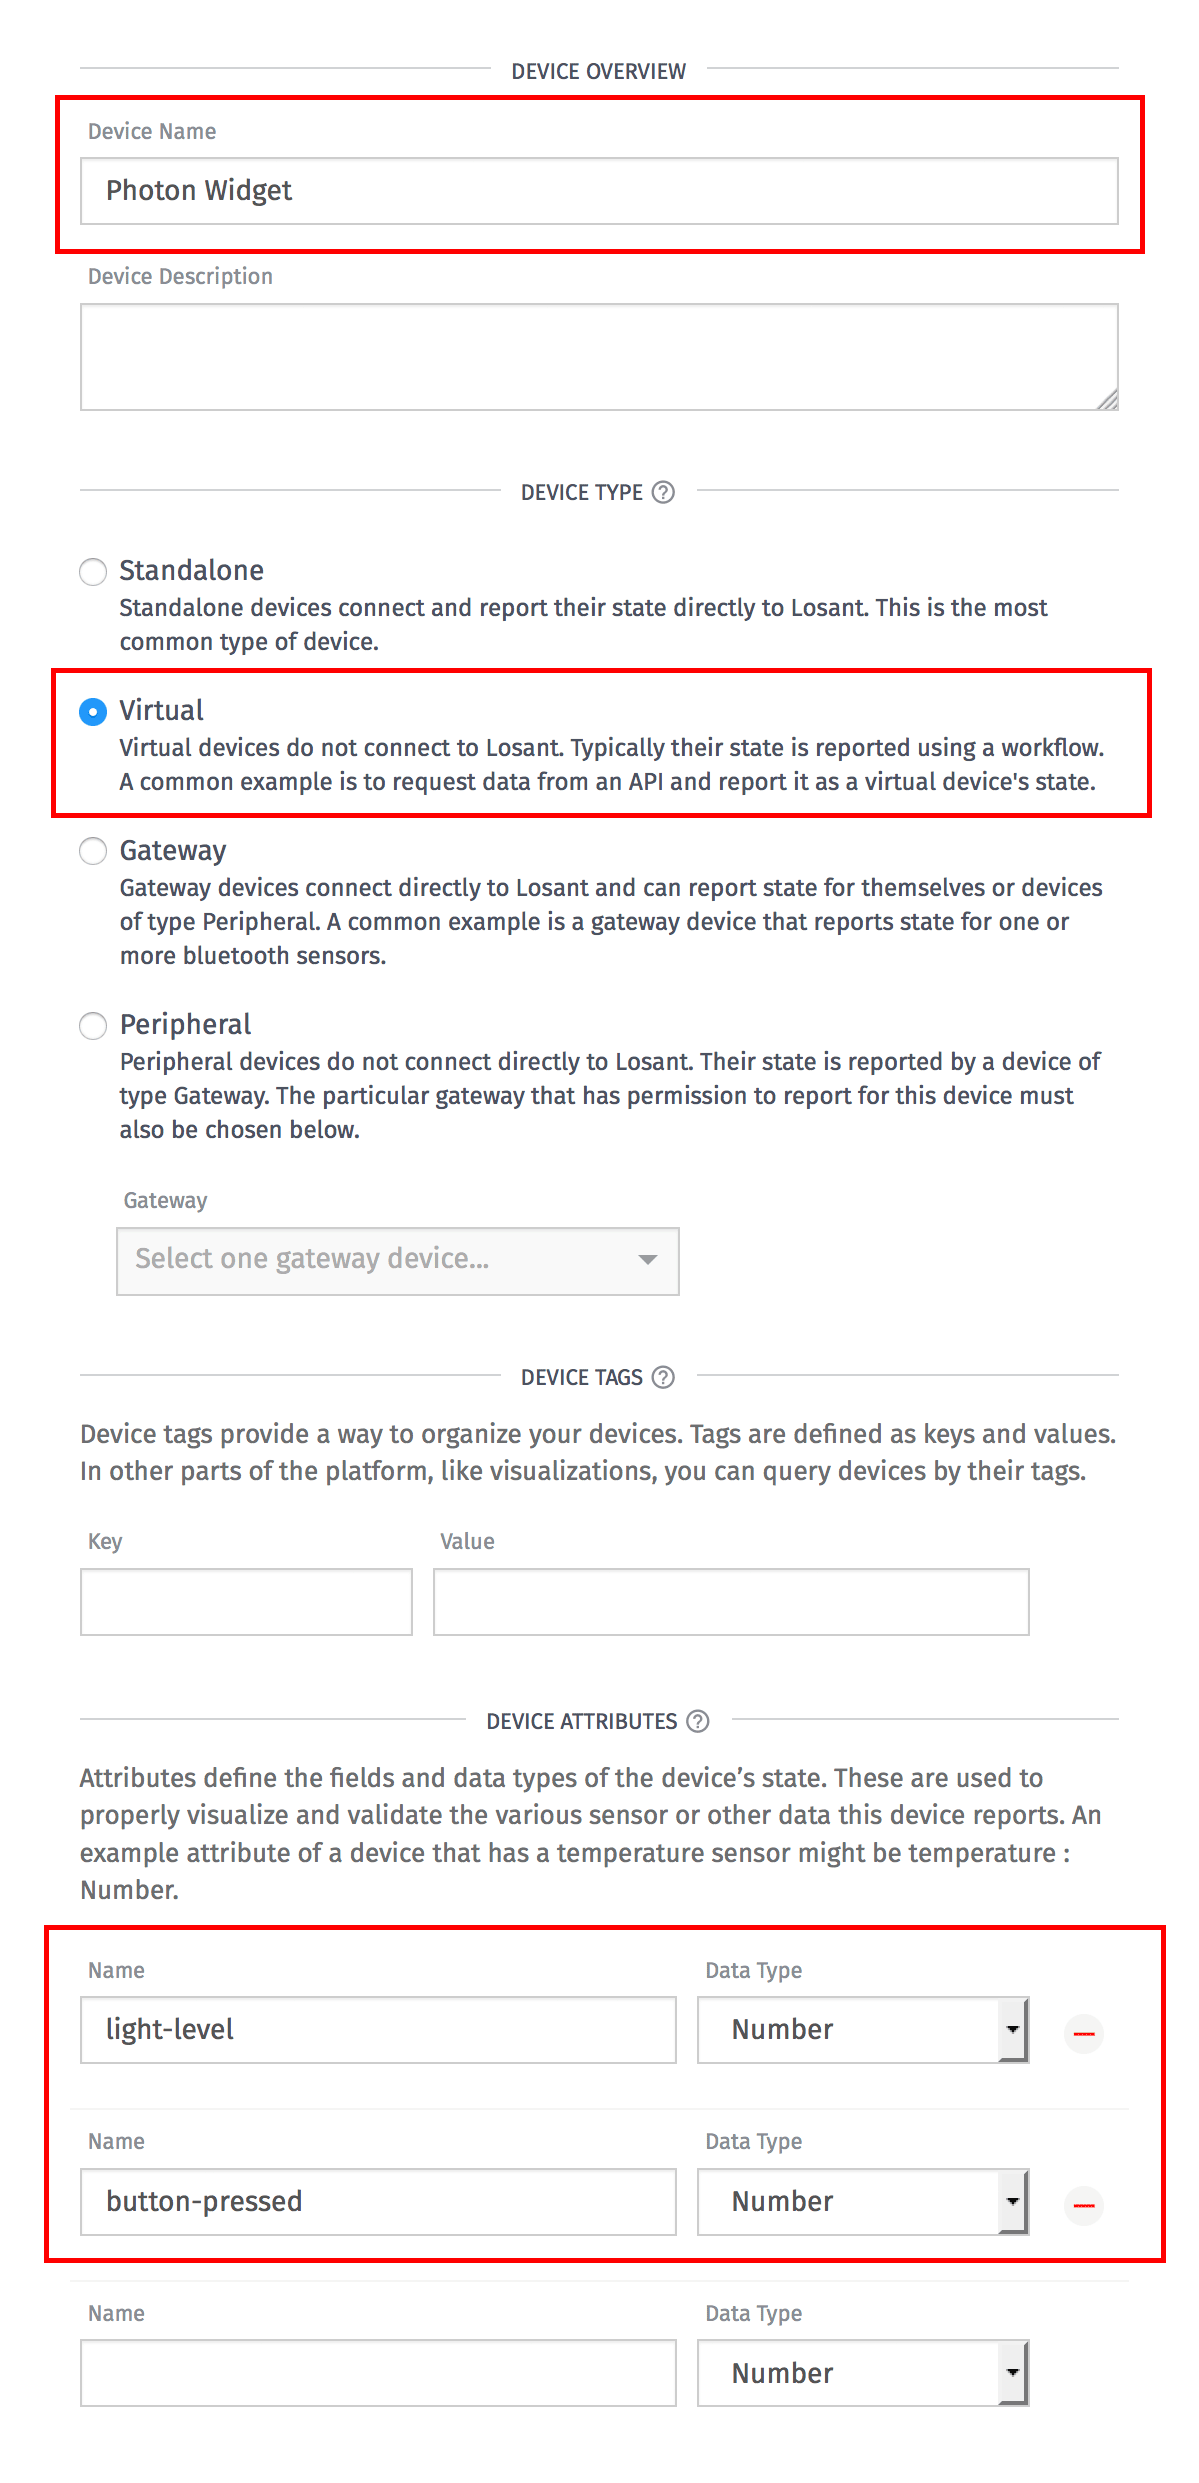
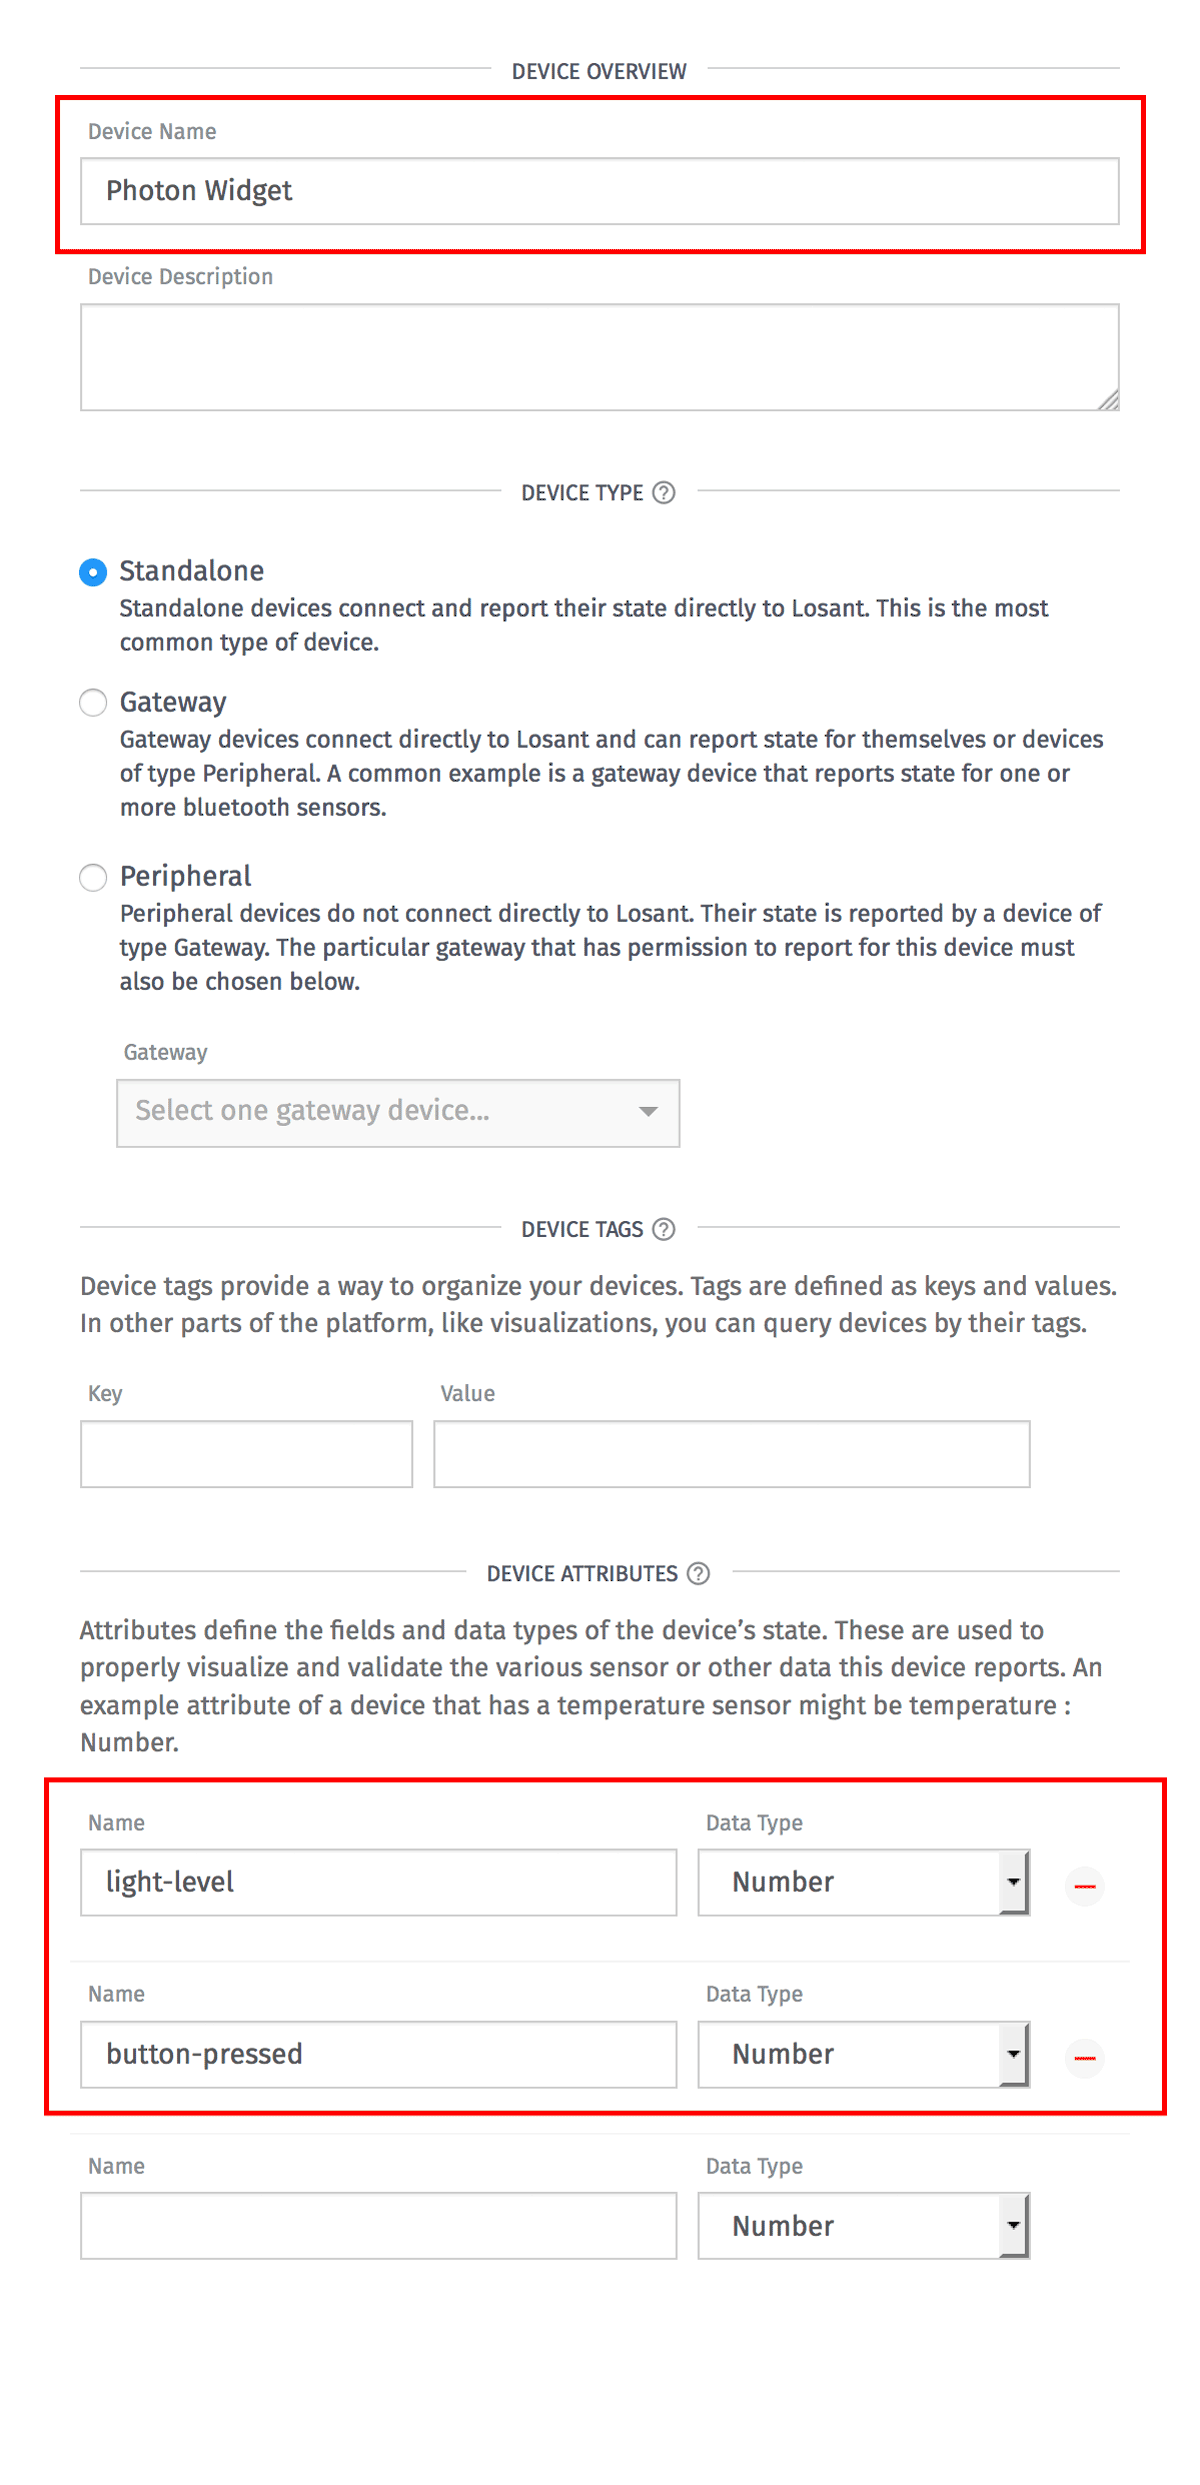
remove virtual device references

diff --git a/losant/workflows/outputs/virtual-device/index.html b/losant/workflows/outputs/virtual-device/index.html
@@ -1,0 +1,7 @@
+<html>
+  <head>
+    <META http-equiv="refresh" content="0;URL=/workflows/outputs/device-state/">
+  </head>
+  <body>
+  </body>
+</html>

diff --git a/docs/getting-started/walkthrough.md b/docs/getting-started/walkthrough.md
@@ -4,7 +4,7 @@ Don't have a device? No problem! This walkthrough will allow you to experience m
 
 ![Full Dashboard](/images/getting-started/walkthrough/dashboard-full.png "Full Dashboard")
 
-Since all data doesn't come from physical things, Losant provides the concept of [virtual devices](/devices/overview/#device-type), which get their state information from sources other than real objects. We're going to use a virtual device in this walkthrough to store and visualize real weather data.
+Since all data doesn't come from physical things, Losant does not require that a Losant device map to an actual pyshical device.  State can be reported to a Losant device through other means - for instance, we are going to use a workflow to gather and report state for a device in this walkthrough in order to store and visualize real weather data.
 
 ## Step 1: Sign up for Forecast.io API
 
@@ -20,7 +20,7 @@ After signing up you'll be prompted to create your first application. You can al
 
 ![Create Application](/images/getting-started/walkthrough/create-application.png "Create Application")
 
-## Step 3: Add the Virtual Device
+## Step 3: Add the Device
 
 Now that we have an application we need a [device](/devices/overview) to store all of our weather data. Add a device using the `Add Device` button or the `Devices` menu.  Choose `Create From Scratch` on the following screen, since we want to create from a blank device.
 
@@ -30,7 +30,7 @@ The [Forecast.io API](https://developer.forecast.io/docs/v2) provides a lot of i
 
 ![Device Settings](/images/getting-started/walkthrough/device-settings.png "Device Settings")
 
-When creating the device, make sure `Virtual` is selected as the device type. Device tags won't be needed since we only have a single device. Tags become useful when you start organizing hundreds or thousands of devices.
+When creating the device, make sure `Standalone` is selected as the device type. Device tags won't be needed since we only have a single device. Tags become useful when you start organizing hundreds or thousands of devices.
 
 The `Device Attributes` are important. These are what tell Losant what data this device will be reporting and what Losant will be storing. For the weather device, we'll be storing the following attributes:
 
@@ -52,7 +52,7 @@ The screen will change and display information about your device, including the 
 
 ## Step 4: Requesting Weather Data
 
-In this step, we're going to use a [Losant workflow](/workflows/overview/) to periodically request weather data from Forecast.io and store it using our new virtual device.
+In this step, we're going to use a [Losant workflow](/workflows/overview/) to periodically request weather data from Forecast.io and store it on our new device.
 
 Create a new workflow from the `Workflows` main menu.
 
@@ -104,11 +104,11 @@ We can now inspect our payload and can see the result from the Forecast.io API c
 
 ## Step 5: Save Weather Data to Device
 
-Now that we've got weather data being queried every 2 minutes, it's time to start storing it on our virtual device. Drag a virtual device node onto the canvas and connect it to the the HTTP node.
+Now that we've got weather data being queried every 2 minutes, it's time to start storing it on our device. Drag a device state node onto the canvas and connect it to the the HTTP node.
 
-![Virtual Device](/images/getting-started/walkthrough/virtual-device.png "Virtual Device")
+![Device State](/images/getting-started/walkthrough/device-state.png "Device State")
 
-The virtual device node requires you to select the device to report as - which in this case is the device you created earlier. We then set the devices state by publishing values for all of the attributes we defined for the device earlier. The values support what Losant calls templates, which means we can reference data stored on the payload. As you saw from the debug output earlier, the payload currently looks something like this:
+The device state node requires you to select the device to report as - which in this case is the device you created earlier. We then set the devices state by publishing values for all of the attributes we defined for the device earlier. The values support what Losant calls templates, which means we can reference data stored on the payload. As you saw from the debug output earlier, the payload currently looks something like this:
 
 ```json
 {
@@ -165,7 +165,7 @@ We can then assign values to our various attributes by using the following templ
 * visibility : `{{ weather.body.currently.visibility }}`
 * pressure : `{{ weather.body.currently.pressure }}`
 
-You can now deploy this workflow and every time the timer triggers, the virtual device will publish those state attributes to Losant.
+You can now deploy this workflow and every time the timer triggers, the device state node will publish those state attributes to your device in Losant.
 
 ![Deploy Workflow](/images/getting-started/walkthrough/deploy-workflow.png "Deploy Workflow")
 

diff --git a/docs/getting-started/losant-iot-dev-kits/builder-kit-particle.md b/docs/getting-started/losant-iot-dev-kits/builder-kit-particle.md
@@ -82,7 +82,9 @@ Next, add a device to the application to represent our Photon-powered widget.
 ![Device Setup](/images/getting-started/losant-iot-dev-kits/builder-kit-particle/device-setup.png "Device Setup")
 
 1. Set the device name to anything you want.
-1. Set the device type to `Virtual`. This is required since the Photon won't be directly connecting to the Losant platform. The device's state information (light level and button presses) will be obtained by receiving webhooks from the Particle cloud, which we'll set up in a later step.
+1. "Description" can be left blank, or fill it with whatever you want.
+1. For "Device Type", leave "Standalone" selected.
+1. No device tags are required.
 1. Set two attributes on the device: "light-level" and "button-pressed". Set both of their data types to `Number`.
 
 Once everything is configured, click the `Create Device` button at the top-right on the screen.
@@ -197,11 +199,11 @@ Set the expression of the right Conditional node to check for the "button-presse
 
 Many places within a Losant workflow allow you to reference values on the current payload by surrounding the path with double curly braces. In this example, each conditional is checking that the value at `data.body` is equal to a string. With this conditional, we can do something different when the button is pressed compared to when the light level is received.
 
-Let's now save all of this data on the Losant device we created earlier. Drag two [Virtual Device](/workflows/outputs/virtual-device/) nodes onto the canvas and connect them to each conditional block.
+Let's now save all of this data on the Losant device we created earlier. Drag two [Device State](/workflows/outputs/device-state/) nodes onto the canvas and connect them to each conditional block.
 
-![Virtual Device Nodes](/images/getting-started/losant-iot-dev-kits/builder-kit-particle/virtual-device-node.png "Virtual Device Nodes")
+![Device State Node](/images/getting-started/losant-iot-dev-kits/builder-kit-particle/device-state-node.png "Device State Node")
 
-Each Virtual Device node will save state onto our Losant device. Under the light level condition, set the "light-level" device attribute to "{{ data.body.data }}". Under the button pressed condition, simply set the "button-pressed" attribute to the number 1. In the next section, when we create a dashboard, we will show a sum of all button presses, which is why we just need to report a 1 each time it is pressed.
+Each Device State node will save state onto our Losant device. Under the light level condition, set the "light-level" device attribute to "{{ data.body.data }}". Under the button pressed condition, simply set the "button-pressed" attribute to the number 1. In the next section, when we create a dashboard, we will show a sum of all button presses, which is why we just need to report a 1 each time it is pressed.
 
 Deploy the workflow using the `Deploy Workflow` button.
 
@@ -257,7 +259,7 @@ As you continue the workshop, feel free to leave the dashboard open and let it c
 
 ## Use the Button
 
-Since we have a workflow that gets triggered whenever the button is pressed, let's send ourselves an SMS message whenever it occurs. Go back to the workflow and drag an [SMS node](/workflows/outputs/sms/) onto the canvas and connect it to the Virtual Device node under the button-pressed conditional.
+Since we have a workflow that gets triggered whenever the button is pressed, let's send ourselves an SMS message whenever it occurs. Go back to the workflow and drag an [SMS node](/workflows/outputs/sms/) onto the canvas and connect it to the Device State node under the button-pressed conditional.
 
 ![SMS Node](/images/getting-started/losant-iot-dev-kits/builder-kit-particle/sms-node.png "SMS Node")
 

diff --git a/docs/devices/overview.md b/docs/devices/overview.md
@@ -26,11 +26,8 @@ to the Losant platform.  There are 4 categories, but in most cases you will be c
 the first, `Standalone`.
 
 *   **Standalone**  
-A standalone device is your normal everyday type of physical device.  It will connect
+A standalone device is your normal everyday type of device.  It is allowed to connect
 directly to Losant and report its own state.
-
-*   **Virtual**  
-The major difference with a virtual device is how state is reported. A virtual device is not expected to actually connect to the platform, so a virtual device's state can only be reported using a Losant workflow. Virtual devices are useful if you'd like to record sensor data from something other than a physical thing. For example, you could create a workflow that requests the outside temperature every few minutes from a 3rd party weather API and saves the result as the state of a virtual device. Since this information is now on a device, you can visualize, trigger workflows, or perform any other actions on this information as if the data came from an actual physical widget.
 
 *   **Gateway**  
 A gateway device is a device that connects to Losant and reports both its own state and the
@@ -41,8 +38,7 @@ are extremely useful for helping to report the state of non-internet connected d
 A peripheral device does not connect directly to Losant - instead they report their
 state to a gateway device, and that gateway pushes that state to Losant.  When choosing
 peripheral as the device type, you must choose the particular gateway device that this
-device will be reporting through, so that Losant knows what gateway has permission to report
-as this peripheral device.
+device will be reporting through, so that Losant knows what gateway has permission to report as this peripheral device.
 
 ### Device Tags
 

diff --git a/docs/devices/state.md b/docs/devices/state.md
@@ -34,7 +34,9 @@ A device can report state as often as needed, as long as it's within the Losant 
 
 [Standalone](/devices/overview/#device-type) or [Gateway](/devices/overview/#device-type) devices typically report state over an MQTT or REST connection. The Losant MQTT clients make it easy to form MQTT connections and report state to Losant. If your device only reports state every few minutes or every few hours, then the REST interface likely makes more sense so it doesn't have to maintain a persistent connection.
 
-[Virtual](/devices/overview/#device-type) or [Peripheral](/devices/overview/#device-type) do not connect to Losant or report their own state. Reporting the state of a virtual device is typically done using a workflow, while a gateway device generally reports the state of a peripheral device on behalf of that peripheral.
+[Peripheral](/devices/overview/#device-type) do not connect to Losant or report their own state. A gateway device generally reports the state of a peripheral device on behalf of that peripheral.
+
+Workflows can also report state for any type of device using the [Device State](/workflows/outputs/device-state) node.  In addition, when authenticated against the Losant API as a user, the [Device Post State](/rest-api/device/#post-state) API endpoint can be used to record state for any type of device.
 
 ## Using State
 

diff --git a/docs/workflows/outputs/device-state.md b/docs/workflows/outputs/device-state.md
@@ -1,0 +1,15 @@
+# Device State Node
+
+The device state node allows a workflow to update the state of a [device](/devices/overview/#device-configuration).
+
+![Device State Node](/images/workflows/outputs/device-state-node.png "Device State Node")
+
+## Configuration
+
+There are two parts to configuring a device state node - selecting the device that the node should set the state of, and configuring what attributes and values should be set as the state.
+
+![Device State Node Configuration](/images/workflows/outputs/device-state-node-config.png "Device State Node Configuration")
+
+Any number of attributes can be configured - it does not have to be all of the attributes that the device is configured for.  Attribute values support templating, and so can pull values off of the currently executing workflow payload.  Values will be cast (if possible) to the type of attribute that the device has been previously defined to expect.
+
+In the above example, the device state node is setting the state of the device `Electricity Cost`.  It will set the `cents` attribute to the value of the field `data.pricing.price` in the current payload.

diff --git a/docs/getting-started/what-is-losant.md b/docs/getting-started/what-is-losant.md
@@ -4,7 +4,7 @@ Losant is an easy-to-use and powerful developer platform designed to help you qu
 
 ![Overview Diagram](/images/getting-started/overview-diagram.png "Overview Diagram")
 
-If you don't have a device, but still want to experience many of the features Losant provides, please check out the [Losant Walkthrough](/getting-started/walkthrough), which will guide you through building a local weather dashboard using a virtual device.
+If you don't have a device, but still want to experience many of the features Losant provides, please check out the [Losant Walkthrough](/getting-started/walkthrough), which will guide you through building a local weather dashboard.
 
 ## Device Connectivity
 

diff --git a/docs/getting-started/losant-iot-dev-kits/moisture-sensor-kit.md b/docs/getting-started/losant-iot-dev-kits/moisture-sensor-kit.md
@@ -51,7 +51,7 @@ Next, choose the `Create from Scratch` option.
 
 1. Name the device anything you want.
 1. "Description" can be left blank, or fill it with whatever you want.
-1. Leave "Virtual Device" unchecked.
+1. For "Device Type", leave "Standalone" selected.
 1. No device tags are required.
 1. Add a device attribute with the name "moisture" and the type `Number`.
 

diff --git a/docs/getting-started/losant-iot-dev-kits/door-sensor-kit.md b/docs/getting-started/losant-iot-dev-kits/door-sensor-kit.md
@@ -50,7 +50,7 @@ Next, choose the `Create from Scratch` option.
 
 1. Name the device anything you want.
 1. "Description" can be left blank, or fill it with whatever you want.
-1. Leave "Virtual Device" unchecked.
+1. For "Device Type", leave "Standalone" selected.
 1. No device tags are required.
 1. Add a device attribute with the name "open" and the type `Number`.
 
